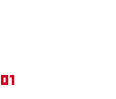
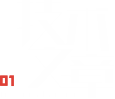
change welcome page AI image

Changed region(s): [[0.0, 0.7576, 0.1304, 0.8788]]

diff --git a/app/assets/stylesheets/welcome-rwd.scss b/app/assets/stylesheets/welcome-rwd.scss
@@ -12,6 +12,9 @@
   .about-me{
     height: 145px;
   }
+  .welcome-large-image{
+    display: none
+  }
 }
 
 @media (min-width:992px){
@@ -30,6 +33,9 @@
   .about-me{
     height: 145px;
   }
+  .welcome-large-image{
+    display: none
+  }
 }
 
 @media (min-width:1200px){
@@ -47,5 +53,11 @@
   }
   .about-me{
     height: 145px;
+  }
+  .welcome-small-image{
+    display: none
+  }
+  .welcome-large-image{
+    display: block;
   }
 }

diff --git a/app/assets/stylesheets/welcome.scss b/app/assets/stylesheets/welcome.scss
@@ -64,6 +64,17 @@
   background-color: $dark;
 }
 
+.technology-article,
+.programme-demo,
+.design-work{
+  a{
+    img{
+  width: 200;
+      height: 100;
+    }
+  }
+}
+
 .about-me{
   font-size: 14px;
   color: #fff;
